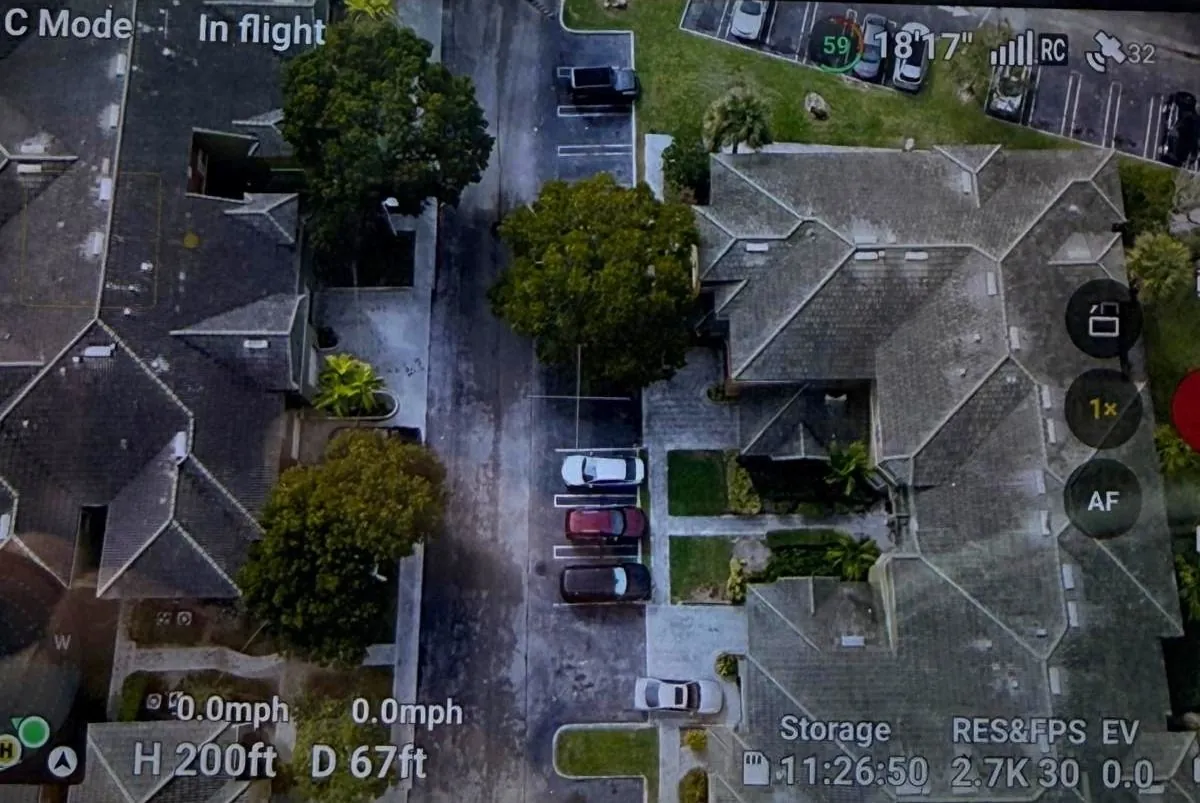
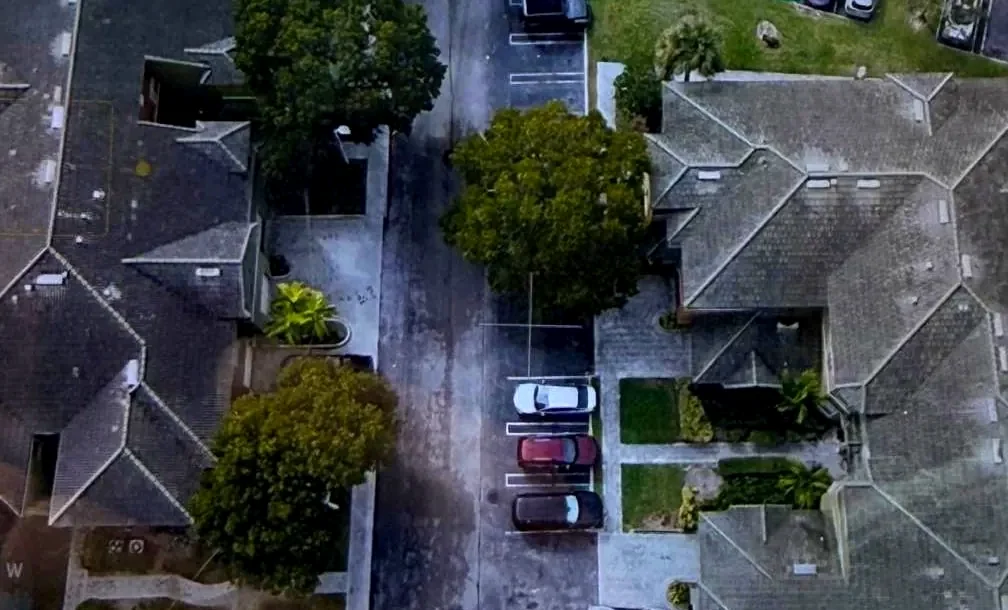
Products polish: clean hero drone image + remove glycols product card
Hero "Exterior cleaning" tile used a raw drone-controller screenshot with
the full flight HUD baked in (battery, timecode, camera buttons). Cropped
to the clean aerial and lightly graded; improves all five usages of
drone.webp (hero, proof x2, industries, gallery).

Remove the glycols product card: glycol is a programs-page price-list item,
not a catalog product. Drop the CATALOG entry, CATALOG_ORDER token, and
PRODUCT_CATALOG_COPY block in main.js, the water-group render token in
products.html, and the unused glycols-studio.webp.

diff --git a/js/main.js b/js/main.js
@@ -300,34 +300,11 @@ const PRODUCTS = {
     ],
     docs: ["Safety Data Sheet (SDS)", "Technical Application Sheet", "HCR & Descaler Userguide"]
   },
-  glycols: {
-    name: "VertKleen Glycols",
-    cat: "water",
-    replaces: "Supplies inhibited PG and EG glycol programs",
-    hmis: "Program item",
- icon: "ph-thermometer-cold",
- image: "img/products/glycols-studio.webp",
-    tag: "Florida-sourced inhibited propylene and ethylene glycol for facility water loops and district programs.",
-    desc: "A glycol supply program for inhibited PG and EG concentrates and ready-to-use blends, priced for local pickup and facility maintenance programs.",
-    uses: [
-      "Chilled-water and hydronic loop freeze protection",
-      "School district and campus maintenance purchasing",
-      "Propylene glycol and ethylene glycol supply",
-      "Local pickup in Tampa, Lakeland, Cocoa, and Melbourne programs"
-    ],
-    specs: [
-      ["ph-map-pin", "Florida sourced", "Supplied through Florida-based distributors with local pickup"],
-      ["ph-currency-dollar", "Bid-ready list", "Brevard Schools list pricing source available"],
-      ["ph-package", "Multiple packs", "5-gal pails and 55-gal drums"],
-      ["ph-clipboard-text", "Program fit", "Pairs with cooling-tower and water-treatment scopes"]
-    ],
-    docs: ["Glycol Price List", "Technical Data Sheet (TDS)", "Program Quote Worksheet"]
-  }
 };
 
 const CATALOG_ORDER = [
   "hcr", "descaler", "crs", "cr", "crhd", "neutral", "multiwash",
-  "watersafe60", "purgo", "dbnpa", "glycols", "lam3", "alumibrite", "torque"
+  "watersafe60", "purgo", "dbnpa", "lam3", "alumibrite", "torque"
 ];
 
 const PRODUCT_CATALOG_COPY = {
@@ -390,12 +367,6 @@ const PRODUCT_CATALOG_COPY = {
     summary: "A controlled-release tablet for the non-oxidizing rotation in cooling-tower programs.",
     fits: ["quarterly dosing", "cooling towers", "low-dose programs"],
     proof: "EPA registration documentation"
-  },
-  glycols: {
-    job: "Freeze-protection programs",
-    summary: "Florida-sourced inhibited propylene and ethylene glycol for hydronic loops and district maintenance.",
-    fits: ["hydronic loops", "schools", "healthcare", "local pickup"],
-    proof: "Price list and quote worksheet"
   },
   lam3: {
     job: "Moss, algae, mold, and mildew",

diff --git a/products.html b/products.html
@@ -253,7 +253,7 @@ document.addEventListener("DOMContentLoaded", () => {
   document.getElementById("productShelf").innerHTML = CATALOG_ORDER.map(productShelfCard).join("");
   document.getElementById("descaleProducts").innerHTML = render(["hcr", "descaler", "crs"]);
   document.getElementById("degreaseProducts").innerHTML = render(["cr", "crhd", "neutral", "multiwash"]);
-  document.getElementById("waterProducts").innerHTML = render(["watersafe60", "purgo", "dbnpa", "glycols"]);
+  document.getElementById("waterProducts").innerHTML = render(["watersafe60", "purgo", "dbnpa"]);
   document.getElementById("exteriorProducts").innerHTML = render(["lam3", "alumibrite", "torque"]);
   initReveal();
 });